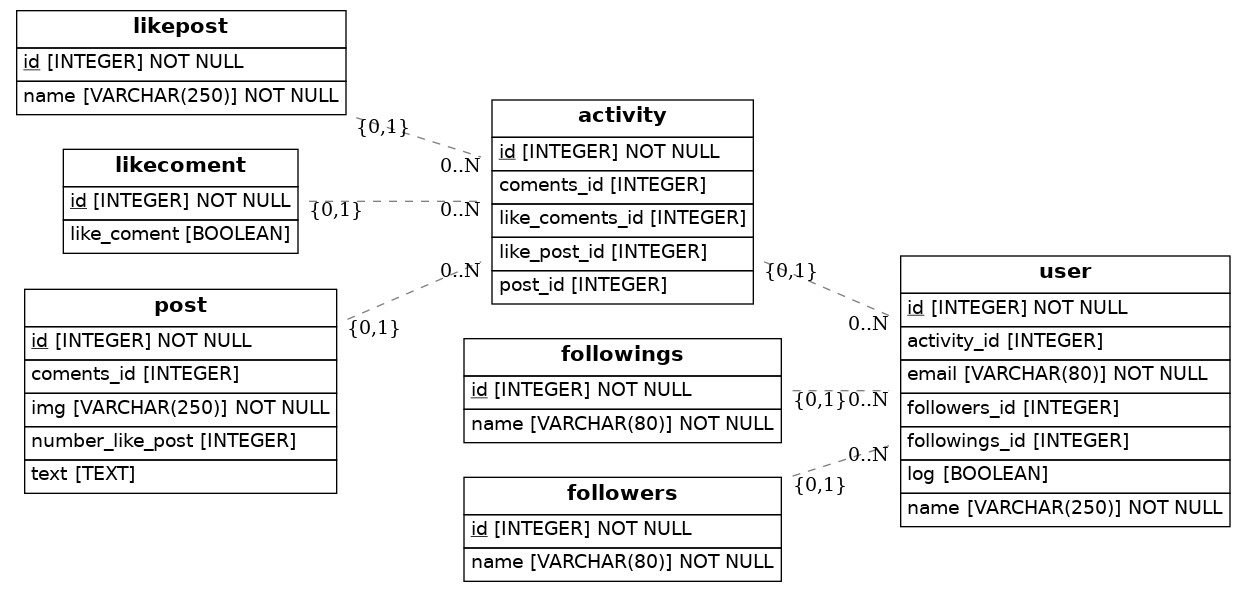
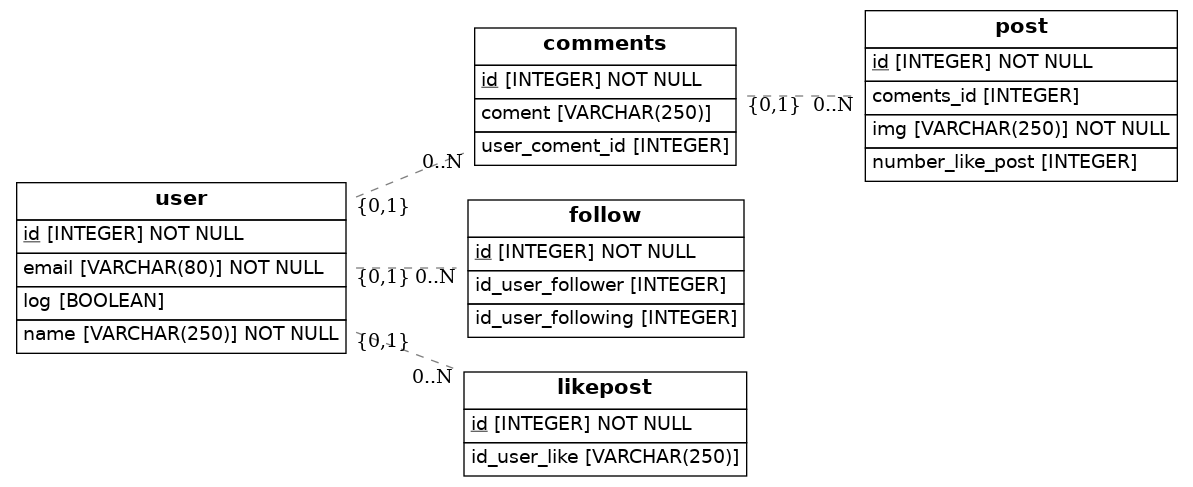
cambios follower, like y post

Changed region(s): [[0.0, 0.0, 0.9925, 0.9856], [0.0, 0.0, 0.3412, 0.2464]]

diff --git a/src/models.py b/src/models.py
@@ -14,49 +14,35 @@ class User(Base):
     # Notice that each column is also a normal Python instance attribute.
     id = Column(Integer, primary_key=True)
     name = Column(String(250), nullable=False)
-    activity_id = Column(Integer, ForeignKey('activity.id'))
     email = Column(String(80), nullable= False)
     log = Column(Boolean)
-    followers_id = Column(Integer, ForeignKey('followers.id'))
-    followings_id = Column(Integer, ForeignKey('followings.id'))
 
-class Activity(Base):
-    __tablename__ = 'activity'
+class Comments(Base):
+    __tablename__ = 'comments'
     id = Column(Integer, primary_key=True)
-    coments_id = Column(Integer, ForeignKey('coments.id'))
-    like_post_id = Column(Integer, ForeignKey('likepost.id'))
-    like_coments_id = Column(Integer, ForeignKey('likecoment.id'))
-    post_id = Column(Integer,ForeignKey('post.id'))
+    coment = Column(String(250))
+    user_coment_id = Column(Integer, ForeignKey('user.id'))
 
-class Followings(Base):
-    __tablename__ = 'followings'
+class Follow(Base):
+    __tablename__ = 'follow'
     id = Column(Integer, primary_key=True)
-    name = Column(String(80), nullable=False)
-
-class Followers(Base):
-    __tablename__ = 'followers'
-    id = Column(Integer, primary_key=True)
-    name = Column(String(80), nullable=False)
+    id_user_follower = Column(Integer, ForeignKey('user.id'))
+    id_user_following = Column(Integer)
+    
 
 class LikePost(Base):
     __tablename__ = 'likepost'
     id = Column(Integer, primary_key=True)
-    name = Column(String(250), nullable=False)
+    id_user_like = Column(String(250), ForeignKey('user.id'))
     post_id = (Integer, ForeignKey('post.id'))
 
-class LikeComent(Base):
-    __tablename__ = 'likecoment'
-    id = Column(Integer, primary_key=True)
-    like_coment = Column(Boolean)
-    post_id = (Integer,ForeignKey('post.id'))
 
 class Post(Base):
     __tablename__ = 'post'
     id = Column(Integer, primary_key=True)
     img = Column(String(250), nullable=False)
-    text = Column(Text)
     number_like_post = Column(Integer)
-    coments_id = Column(Integer, ForeignKey('coments.id'))
+    coments_id = Column(Integer, ForeignKey('comments.id'))
 
     def to_dict(self):
         return {}
